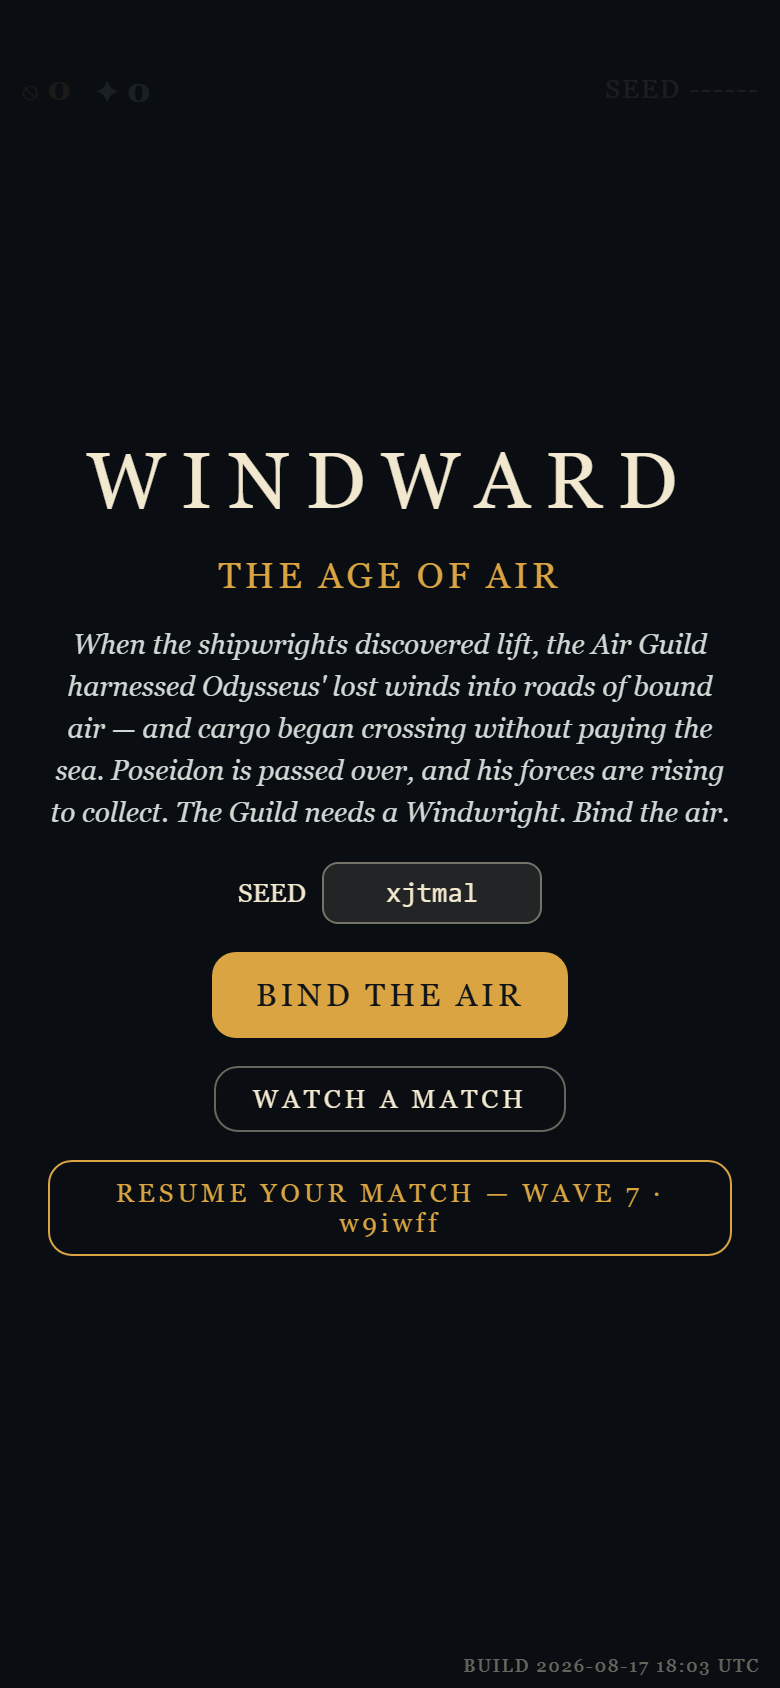
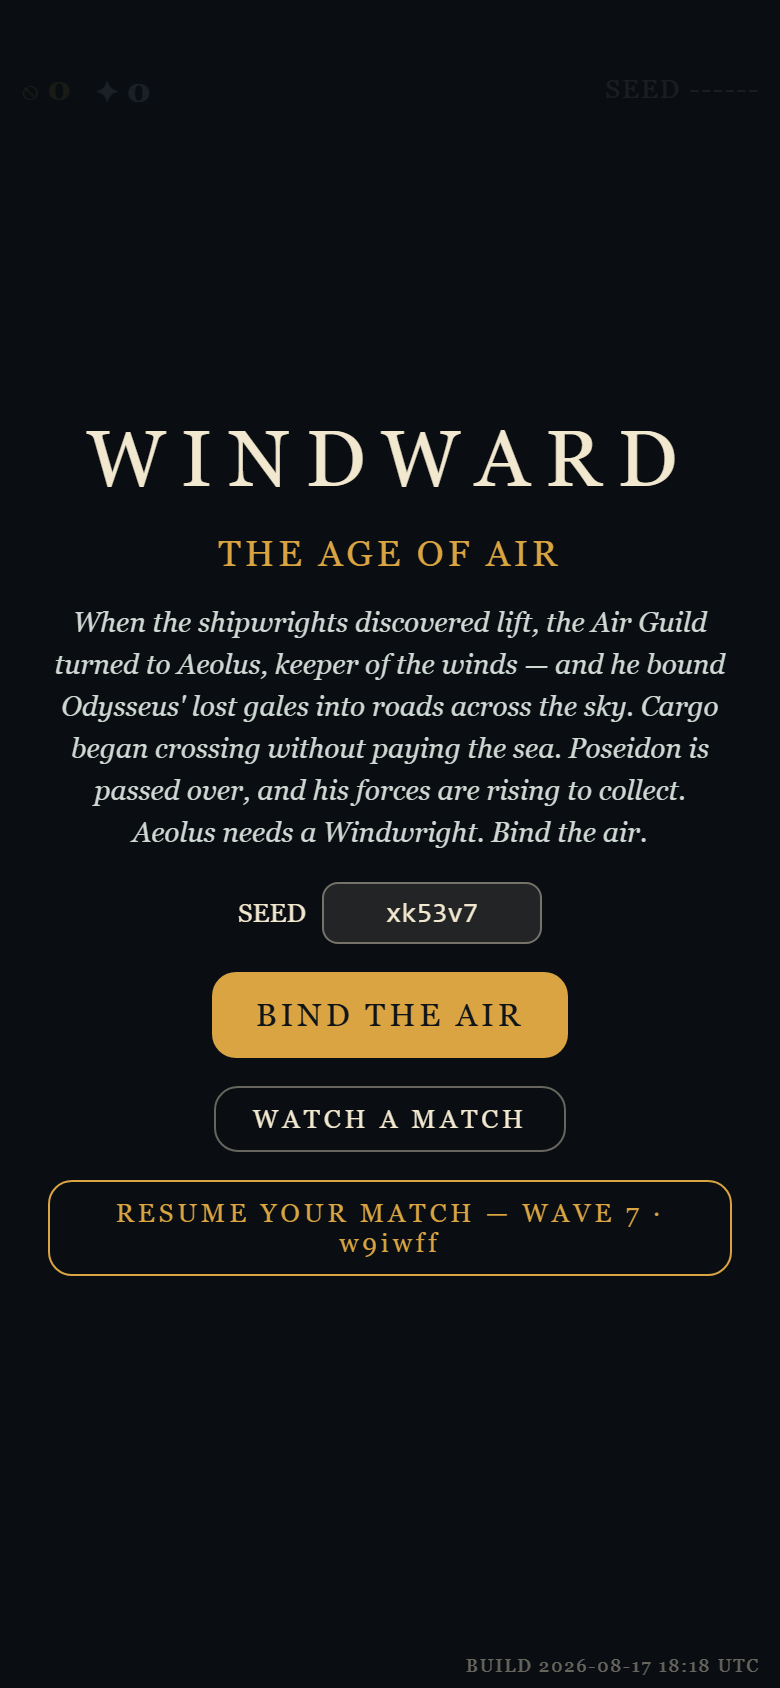
tune: intro lore binds the Guild to Aeolus; refusal-of-loss verified
- Title lore (player-directed): "the Air Guild turned to Aeolus,
  keeper of the winds - and he bound Odysseus lost gales into roads
  across the sky... Aeolus needs a Windwright. Bind the air."
- Playwright proof that an AGAINST-ruling is refusable: ZEUS RULES
  AGAINST YOU -> REFUSE - FIGHT ON -> verdict cleared, refusal locked,
  tides roll on until one Great Temple falls (death or victory both
  reachable). Was already wired; now verified end-to-end.
- Title stills retaken.

Claude-Session: https://claude.ai/code/session_01NjEpo5MjLFBKVLFNZET6tb

diff --git a/index.html b/index.html
@@ -277,9 +277,10 @@
     <h1>WINDWARD</h1>
     <h2>THE AGE OF AIR</h2>
     <p id="lorepara" style="max-width:340px; font-style: italic; line-height:1.5;">When the
-      shipwrights discovered lift, the Air Guild harnessed Odysseus' lost winds into roads of
-      bound air — and cargo began crossing without paying the sea. Poseidon is passed
-      over, and his forces are rising to collect. The Guild needs a Windwright. Bind the air.</p>
+      shipwrights discovered lift, the Air Guild turned to Aeolus, keeper of the winds — and
+      he bound Odysseus' lost gales into roads across the sky. Cargo began crossing without
+      paying the sea. Poseidon is passed over, and his forces are rising to collect.
+      Aeolus needs a Windwright. Bind the air.</p>
     <div class="seedrow">SEED <input id="seedinput" maxlength="8" autocomplete="off"></div>
     <div style="display:flex; gap:12px;">
       <button id="startbtn">BIND THE AIR</button>
@@ -289,7 +290,7 @@
     </div>
     <button id="startdemo" style="background:none; color:var(--ivory); border:1px solid rgba(242,232,207,0.4); font-size:13px; padding:8px 18px;">WATCH A MATCH</button>
     <button id="resumebtn" class="hidden" style="background:none; color:var(--gold); border:1px solid var(--gold); font-size:13px; padding:8px 18px;">RESUME YOUR MATCH</button>
-    <div style="position:absolute; bottom:calc(env(safe-area-inset-bottom, 0px) + 6px); right:10px; font-size:9px; letter-spacing:1px; opacity:0.4;">BUILD 2026-08-17 18:12 UTC</div>
+    <div style="position:absolute; bottom:calc(env(safe-area-inset-bottom, 0px) + 6px); right:10px; font-size:9px; letter-spacing:1px; opacity:0.4;">BUILD 2026-08-17 18:18 UTC</div>
   </div>
   <div id="endscreen" class="screen hidden">
     <h1 id="endtitle"></h1>

diff --git a/shell.html b/shell.html
@@ -277,9 +277,10 @@
     <h1>WINDWARD</h1>
     <h2>THE AGE OF AIR</h2>
     <p id="lorepara" style="max-width:340px; font-style: italic; line-height:1.5;">When the
-      shipwrights discovered lift, the Air Guild harnessed Odysseus' lost winds into roads of
-      bound air — and cargo began crossing without paying the sea. Poseidon is passed
-      over, and his forces are rising to collect. The Guild needs a Windwright. Bind the air.</p>
+      shipwrights discovered lift, the Air Guild turned to Aeolus, keeper of the winds — and
+      he bound Odysseus' lost gales into roads across the sky. Cargo began crossing without
+      paying the sea. Poseidon is passed over, and his forces are rising to collect.
+      Aeolus needs a Windwright. Bind the air.</p>
     <div class="seedrow">SEED <input id="seedinput" maxlength="8" autocomplete="off"></div>
     <div style="display:flex; gap:12px;">
       <button id="startbtn">BIND THE AIR</button>
